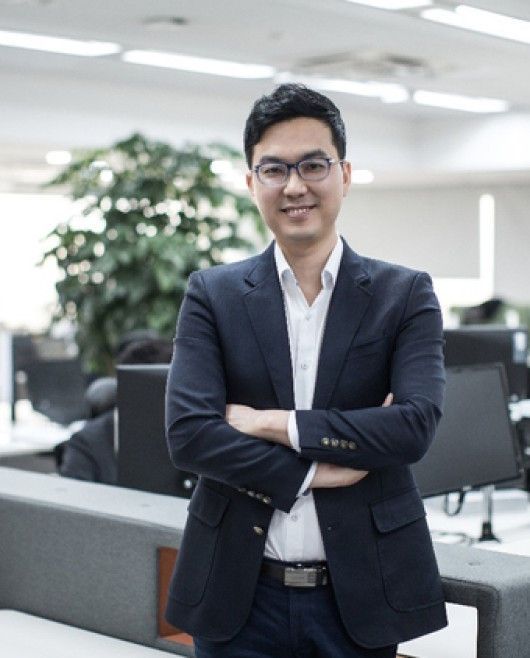
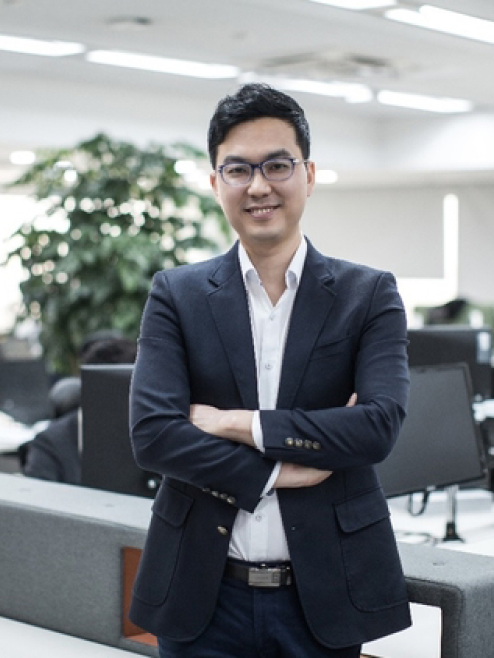
feat : 반응형 디자인 (게시판, 게시물, 기타)

diff --git a/Frontend/src/pages/introduction/OrgchartAndProjectPage.jsx b/Frontend/src/pages/introduction/OrgchartAndProjectPage.jsx
@@ -9,11 +9,11 @@ import orgchart from "../../static/images/조직도.png";
 import mainProject from "../../static/images/주요사업.png";
 import supportArea from "../../static/images/지원분야.png";
 
-const StyledOrgchartWrapper = styled.div``;
-
-const StyledProjectWrapper = styled.div``;
-
-const StyledSupportAreasWrapper = styled.div``;
+const StyledOrgchartWrapper = styled.div`
+	& img {
+		width: 100%;
+	}
+`;
 
 const OrgchartAndProjectPage = () => {
 	return (
@@ -22,19 +22,19 @@ const OrgchartAndProjectPage = () => {
 			<StyledOrgchartWrapper>
 				<h1>조직도</h1>
 				<BlankDiv height="30px" />
-				<img src={orgchart} alt="조직도" width="1070px" />
+				<img src={orgchart} alt="조직도" />
 			</StyledOrgchartWrapper>
 			<BlankDiv height="50px" />
-			<StyledProjectWrapper>
+			<StyledOrgchartWrapper>
 				<h1>주요사업</h1>
 				<BlankDiv height="30px" />
-				<img src={mainProject} alt="조직도" width="1070px" />
-			</StyledProjectWrapper>
-			<StyledSupportAreasWrapper>
+				<img src={mainProject} alt="조직도" />
+			</StyledOrgchartWrapper>
+			<StyledOrgchartWrapper>
 				<h1>지원분야</h1>
 				<BlankDiv height="30px" />
-				<img src={supportArea} alt="지원분야" width="1070px" />
-			</StyledSupportAreasWrapper>
+				<img src={supportArea} alt="지원분야" />
+			</StyledOrgchartWrapper>
 		</Page>
 	);
 };

diff --git a/Frontend/src/pages/introduction/MissionAndHistoryPage.jsx b/Frontend/src/pages/introduction/MissionAndHistoryPage.jsx
@@ -58,7 +58,7 @@ const MissionAndHistoryPage = () => {
 				<h1>역대 이사장</h1>
 				<div>
 					<StyledChairmanItem>
-						<img src={kimhyosoo} alt="김효수" width="150px" height="180px" />
+						<img src={kimhyosoo} alt="김효수" />
 						<div>
 							<h4>제1대 김효수</h4>
 							<br />
@@ -70,7 +70,7 @@ const MissionAndHistoryPage = () => {
 						</div>
 					</StyledChairmanItem>
 					<StyledChairmanItem>
-						<img src={hansangdae} alt="한상대" width="150px" height="180px" />
+						<img src={hansangdae} alt="한상대" />
 						<div>
 							<h4>제2대 한상대</h4>
 							<br />
@@ -84,7 +84,7 @@ const MissionAndHistoryPage = () => {
 						</div>
 					</StyledChairmanItem>
 					<StyledChairmanItem>
-						<img src={jeonSeungho} alt="전승호" width="150px" height="180px" />
+						<img src={jeonSeungho} alt="전승호" />
 						<div>
 							<h4>제3대 전승호</h4>
 							<br />
@@ -280,7 +280,8 @@ const MissionAndHistoryPage = () => {
 
 const StyledChairmanItem = styled.div`
 	border: 1px solid #e1e1e1;
-	width: 330px;
+	width: calc(100% / 3);
+	max-width: 330px;
 	display: flex;
 	flex-direction: column;
 	align-items: center;
@@ -296,6 +297,7 @@ const StyledChairmanItem = styled.div`
 		margin: 2px;
 		border: 1px solid #e1e1e1;
 		object-fit: cover;
+		width: 100%;
 	}
 `;
 

diff --git a/Frontend/src/components/common/Page.jsx b/Frontend/src/components/common/Page.jsx
@@ -5,6 +5,14 @@ const StyledPage = styled.main`
 	display: flex;
 	justify-content: center;
 	padding: 20px;
+
+	@media screen and (max-width: 991px) {
+		padding: 15;
+		min-height: calc(100vh - 200px);
+	}
+	@media screen and (min-width: 992px) {
+		min-height: calc(100vh - 400px);
+	}
 `;
 
 const StyledWrapper = styled.div`
@@ -12,13 +20,21 @@ const StyledWrapper = styled.div`
 	display: flex;
 	flex-direction: column;
 	padding: 30px 80px;
-	width: 1230px;
+	width: 100%;
+	max-width: 1230px;
 
 	& h1 {
 		font-size: 30px;
 		border-left: 5px solid #204397;
 		padding-left: 10px;
 		margin-bottom: 20px;
+	}
+
+	@media screen and (max-width: 991px) {
+		min-width: none;
+		padding: 15px 15px;
+	}
+	@media screen and (min-width: 992px) {
 	}
 `;
 

diff --git a/Frontend/src/pages/BoardPage.jsx b/Frontend/src/pages/BoardPage.jsx
@@ -105,10 +105,28 @@ const StyledPostItemContent = styled.div`
 	margin-right: 1%;
 	display: flex;
 	flex-direction: column;
+	overflow: hidden;
 
 	& > a {
+		overflow: hidden;
+		text-overflow: ellipsis;
+		white-space: nowrap;
 		font-size: 16px;
 		display: block;
+	}
+
+	@media screen and (max-width: 991px) {
+		width: 83%;
+
+		& > a {
+			font-size: 14px;
+		}
+
+		& > span {
+			font-size: 12px;
+		}
+	}
+	@media screen and (min-width: 992px) {
 	}
 `;
 
@@ -123,6 +141,12 @@ const StyledPostItemButton = styled.div`
 
 	& a {
 		font-size: 12px;
+	}
+
+	@media screen and (max-width: 991px) {
+		display: none;
+	}
+	@media screen and (min-width: 992px) {
 	}
 `;
 

diff --git a/Frontend/src/components/common/SubNavButton.jsx b/Frontend/src/components/common/SubNavButton.jsx
@@ -2,8 +2,8 @@ import React from "react";
 import styled from "styled-components";
 
 const StyledSubNavButton = styled.a`
-	width: 250px;
-	height: 40px;
+	width: calc(100% / 4);
+	min-height: 40px;
 	text-align: center;
 
 	font-size: 22.5px;
@@ -15,6 +15,19 @@ const StyledSubNavButton = styled.a`
 
 	& + & {
 		margin-left: 10px;
+	}
+
+	word-break: keep-all;
+
+	@media screen and (max-width: 400px) {
+		font-size: 14px;
+		min-height: 25px;
+	}
+	@media screen and (min-width: 401px) and (max-width: 991px) {
+		font-size: 14px;
+		min-height: 30px;
+	}
+	@media screen and (min-width: 992px) {
 	}
 `;
 

diff --git a/Frontend/src/pages/PostPage.jsx b/Frontend/src/pages/PostPage.jsx
@@ -86,14 +86,19 @@ const StyledPostDetail = styled.div`
 `;
 
 const StyledPostContent = styled.p`
-	min-height: 500px;
+	min-height: calc(100vh - 700px);
 	padding: 20px 0;
 	white-space: pre-wrap;
 `;
 
 const StyledPostFiles = styled.div`
+	position: relative;
+	bottom: 0;
 	display: flex;
 	flex-direction: column;
+	border: 1px solid #474747;
+	padding: 5px;
+	margin-top: 20px;
 
 	& span {
 		font-size: 16px;

diff --git a/Frontend/src/pages/introduction/ChairmanMessagePage.jsx b/Frontend/src/pages/introduction/ChairmanMessagePage.jsx
@@ -42,6 +42,16 @@ const StyledChairmanProfile = styled.div`
 	& p {
 		padding-left: 16px;
 	}
+
+	@media screen and (max-width: 991px) {
+		flex-direction: column;
+
+		& > img {
+			margin-left: 0px;
+		}
+	}
+	@media screen and (min-width: 992px) {
+	}
 `;
 
 const StyledChairmanMessageContent = styled.p`

diff --git a/Frontend/src/pages/introduction/FounderPage.jsx b/Frontend/src/pages/introduction/FounderPage.jsx
@@ -41,6 +41,16 @@ const StyledFounderProfile = styled.div`
 	& p {
 		padding-left: 16px;
 	}
+
+	@media screen and (max-width: 991px) {
+		flex-direction: column;
+
+		& > img {
+			margin-left: 0px;
+		}
+	}
+	@media screen and (min-width: 992px) {
+	}
 `;
 
 const StyledFounderContent = styled.p`
